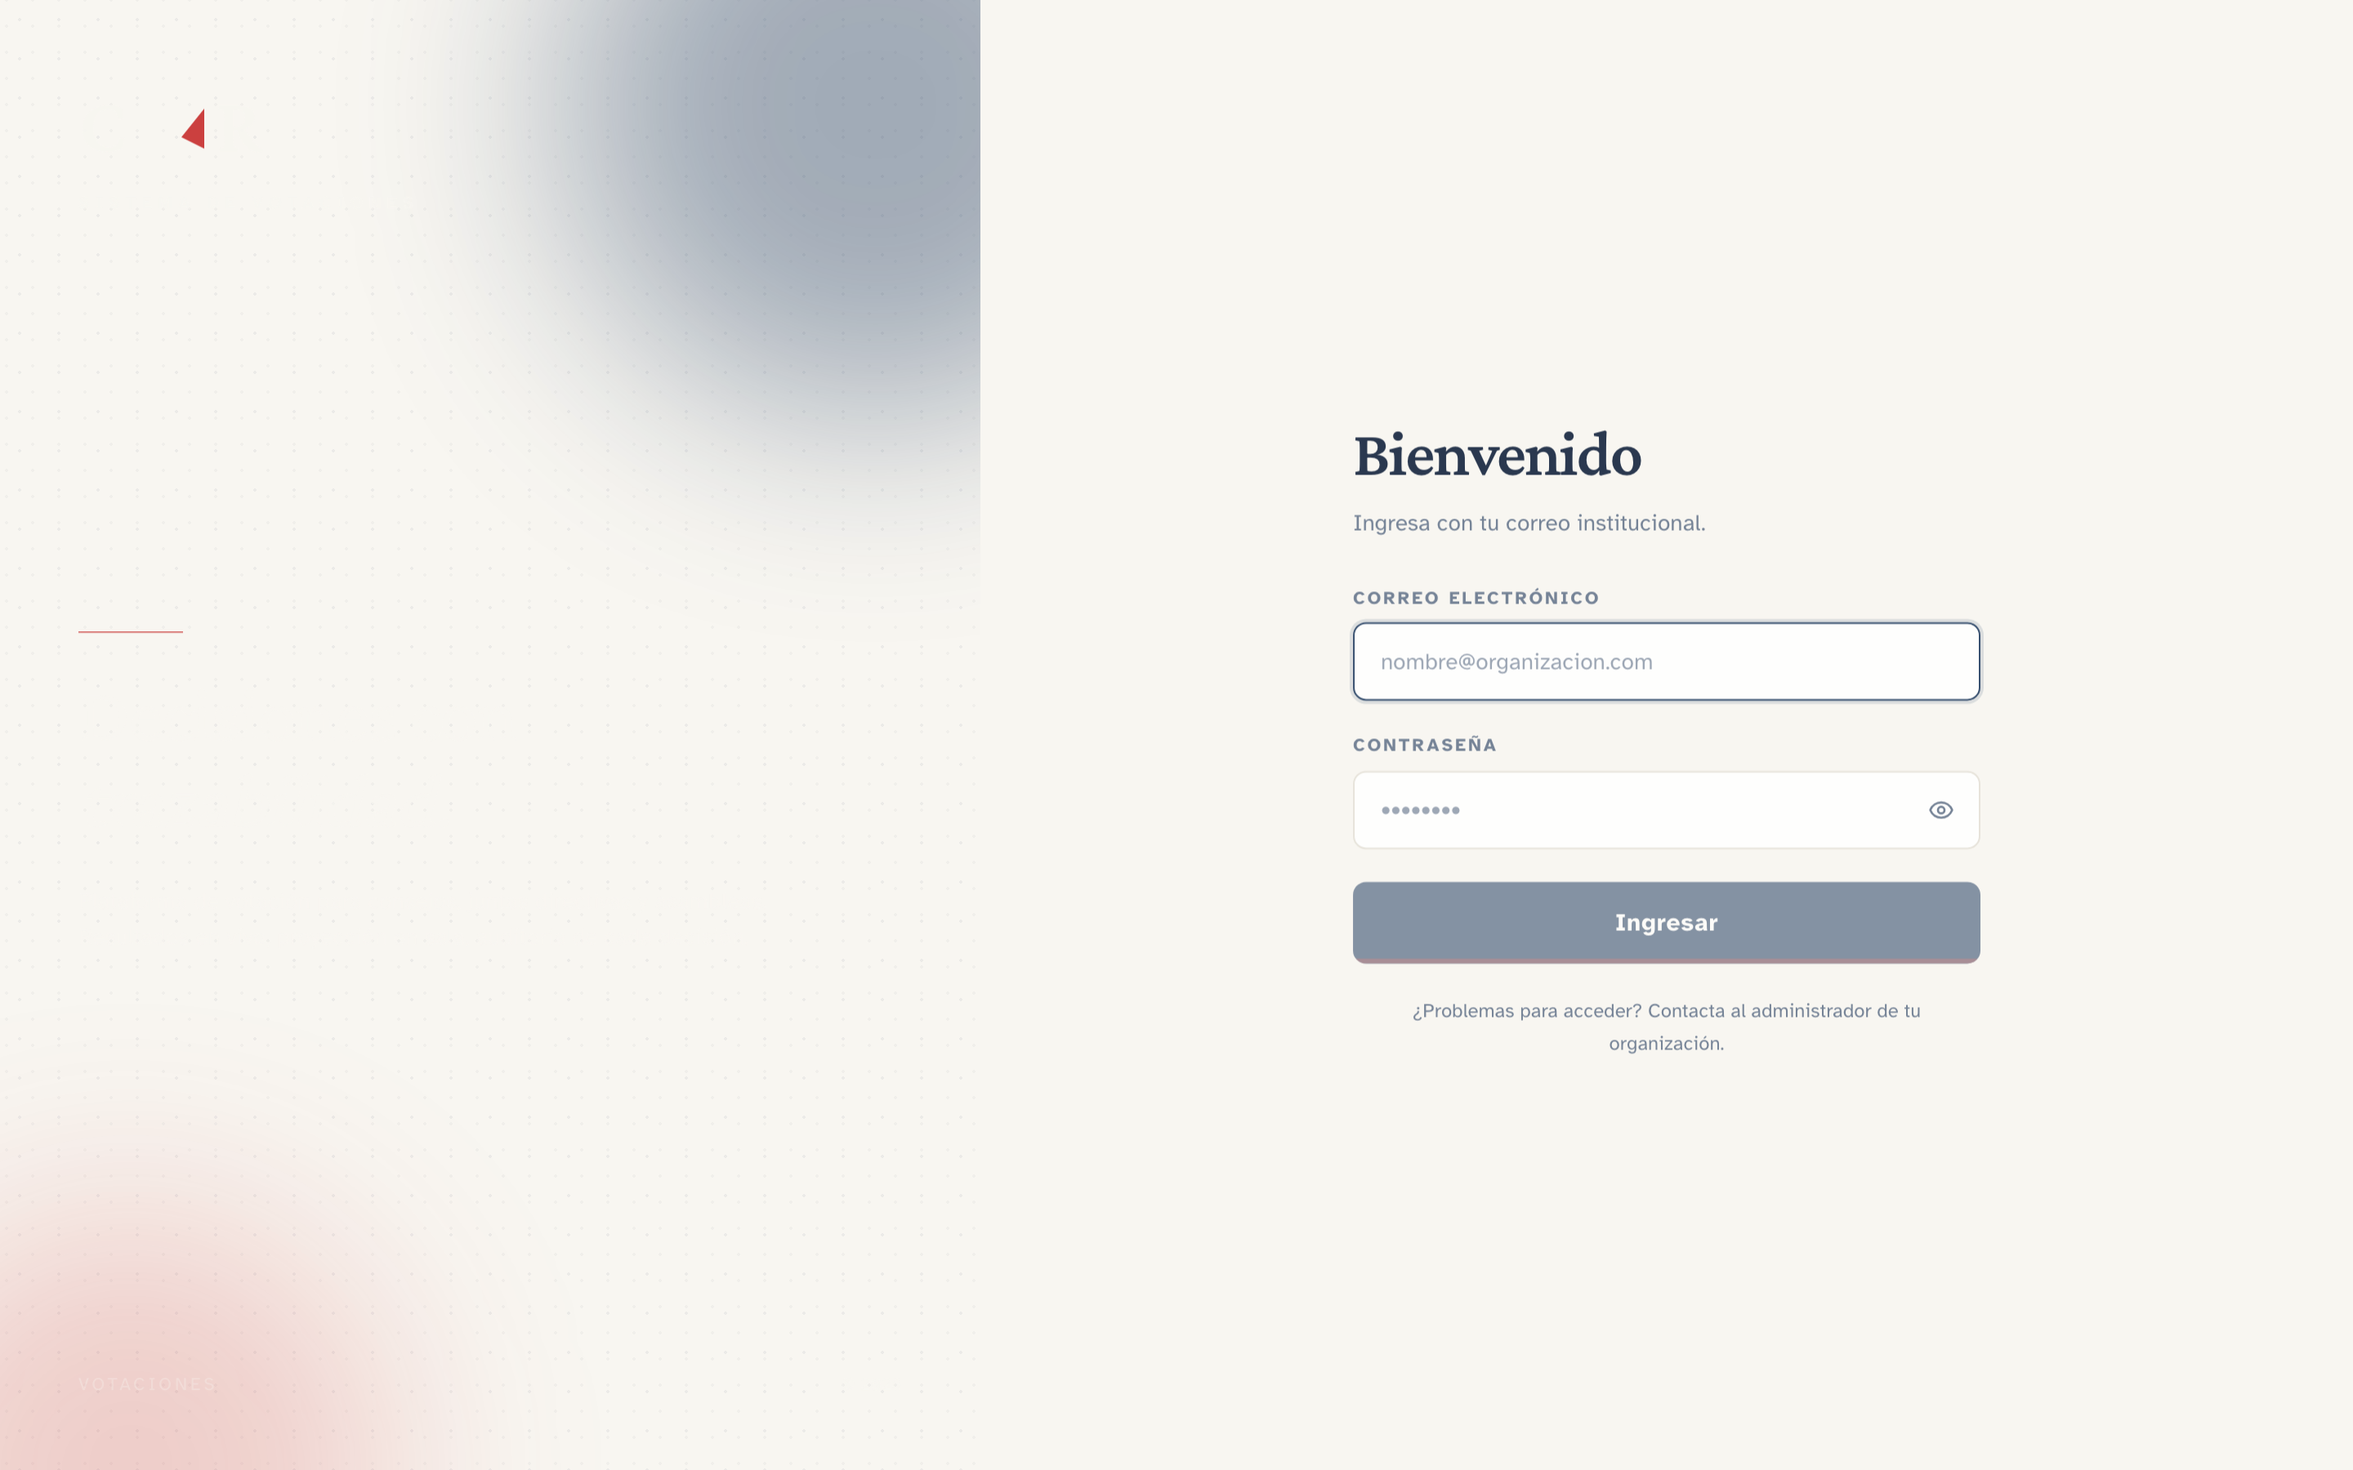
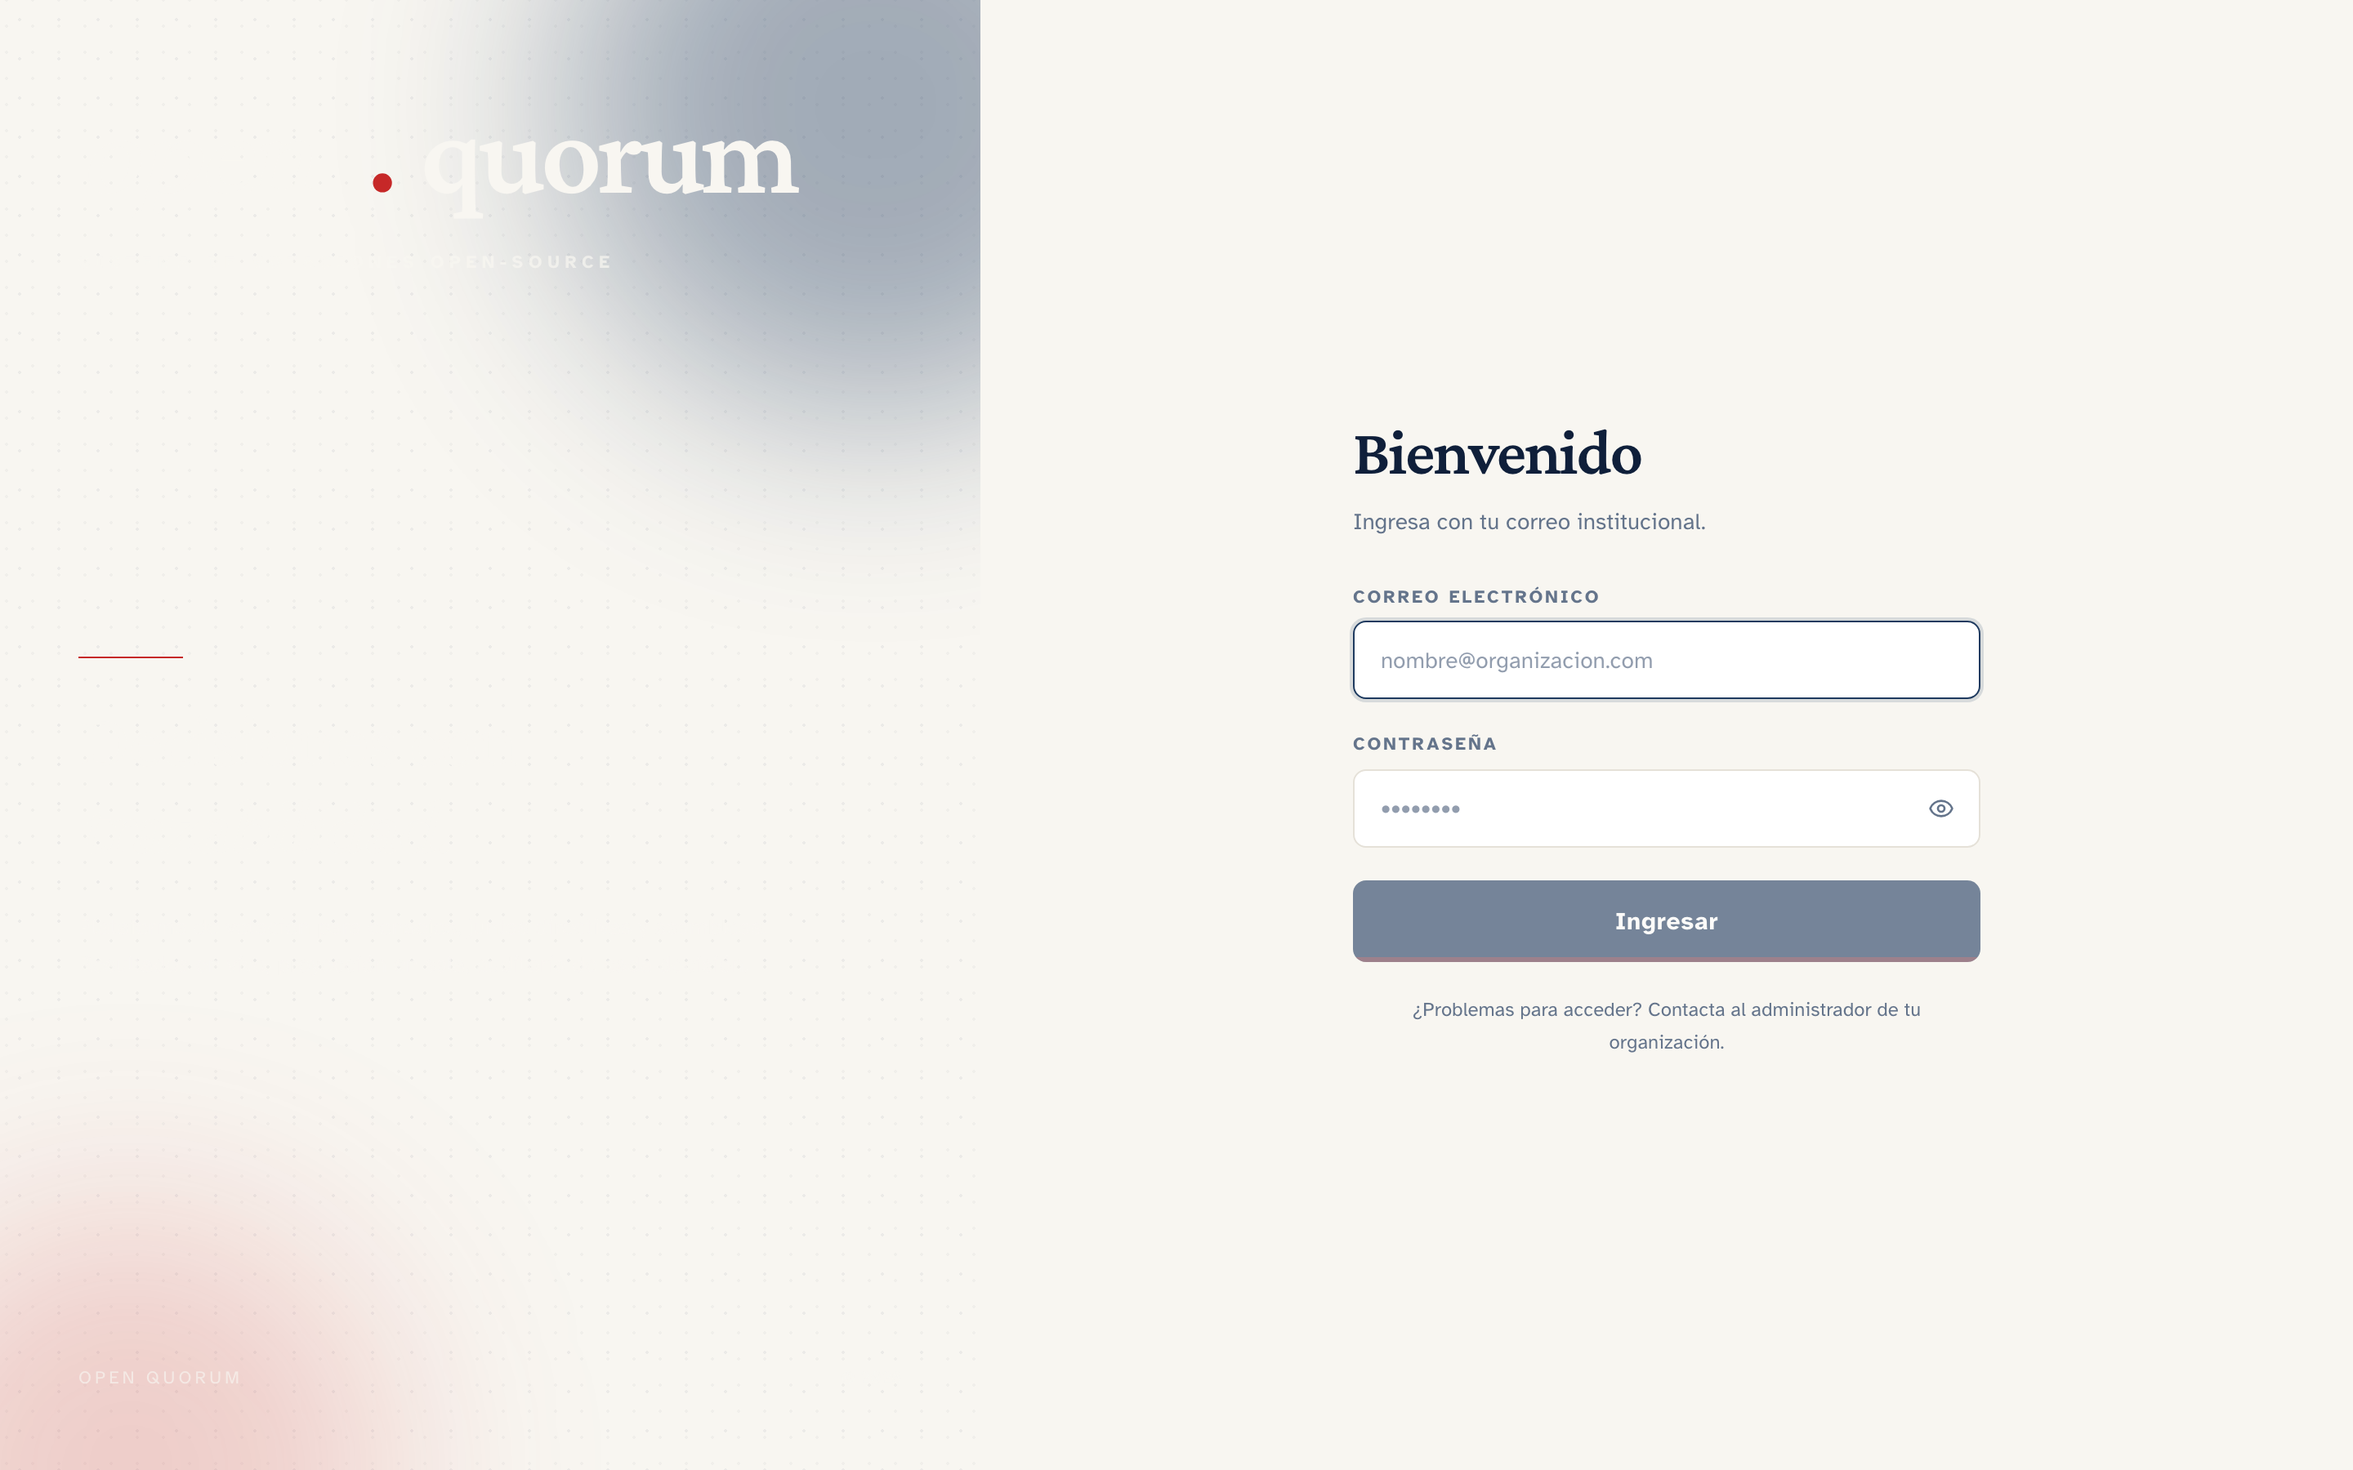
feat(brand): rename to Open Quorum + tag form alignment + logout fix
Rebrand to Open Quorum:
- New brand-mark.tsx: BrandWordmark + BrandMonogram in HTML+CSS
  (not SVG — guarantees next/font Crimson Pro renders correctly).
  Wordmark reads "open•quorum" with italic "open" + crimson dot +
  bold "quorum". Monogram is "OQ" + crimson dot, compact for sidebar.
- Replaced CGR monograms in app-shell, login, branding preview.
- Default APP_NAME fallback now "Open Quorum" (was "Votaciones")
  across branding lib, login hero, branding form placeholder.
- .env.example updated. DB singleton branding also renamed.

Tag form alignment:
- Nombre moved to its own row; Color picker + Crear button sit on
  the same row, baseline-aligned (both h-10). Removes the awkward
  invisible-label spacer hack.

Logout reliability (already in previous commit but documented here):
- signOut now runs client-side via next-auth/react instead of an
  ephemeral server-action hash — survives rebuilds without "page
  couldn't load" errors on stale tabs.

Screenshots regenerated to reflect new branding.

diff --git a/src/components/tags/tags-manager.tsx b/src/components/tags/tags-manager.tsx
@@ -86,22 +86,22 @@ export function TagsManager({
         </CardHeader>
         <CardContent>
           <form onSubmit={handleCreate} className="space-y-4">
-            <div className="grid grid-cols-1 gap-3 sm:grid-cols-[1fr_auto_auto]">
-              <div className="space-y-1.5">
-                <Label htmlFor="nombre" className={labelCls}>
-                  Nombre
-                </Label>
-                <Input
-                  id="nombre"
-                  name="nombre"
-                  required
-                  placeholder="Ej: Elecciones 2026"
-                  value={nombre}
-                  onChange={(e) => setNombre(e.target.value)}
-                  className={fieldCls}
-                />
-              </div>
-              <div className="space-y-1.5">
+            <div className="space-y-1.5">
+              <Label htmlFor="nombre" className={labelCls}>
+                Nombre
+              </Label>
+              <Input
+                id="nombre"
+                name="nombre"
+                required
+                placeholder="Ej: Elecciones 2026"
+                value={nombre}
+                onChange={(e) => setNombre(e.target.value)}
+                className={fieldCls}
+              />
+            </div>
+            <div className="flex flex-col gap-3 sm:flex-row sm:items-end sm:gap-3">
+              <div className="flex-1 space-y-1.5">
                 <Label htmlFor="color" className={labelCls}>
                   Color
                 </Label>
@@ -119,23 +119,18 @@ export function TagsManager({
                   </span>
                 </div>
               </div>
-              <div className="space-y-1.5">
-                <Label className={cn(labelCls, "invisible sm:visible")}>
-                  &nbsp;
-                </Label>
-                <Button
-                  type="submit"
-                  disabled={isCreating || !nombre.trim()}
-                  className="bg-brand-navy text-white hover:bg-brand-navy-deep"
-                >
-                  {isCreating ? (
-                    <Loader2 aria-hidden className="size-4 animate-spin" />
-                  ) : (
-                    <Plus aria-hidden className="size-4" />
-                  )}
-                  Crear
-                </Button>
-              </div>
+              <Button
+                type="submit"
+                disabled={isCreating || !nombre.trim()}
+                className="h-10 bg-brand-navy text-white hover:bg-brand-navy-deep"
+              >
+                {isCreating ? (
+                  <Loader2 aria-hidden className="size-4 animate-spin" />
+                ) : (
+                  <Plus aria-hidden className="size-4" />
+                )}
+                Crear
+              </Button>
             </div>
 
             {/* Paleta sugerida */}

diff --git a/src/app/admin/configuracion/branding/page.tsx b/src/app/admin/configuracion/branding/page.tsx
@@ -15,6 +15,7 @@ import { Input } from "@/components/ui/input";
 import { Label } from "@/components/ui/label";
 import { cn } from "@/lib/utils";
 import { Check, Image as ImageIcon, Palette as PaletteIcon } from "lucide-react";
+import { BrandMonogram } from "@/components/brand-mark";
 
 export const dynamic = "force-dynamic";
 
@@ -88,7 +89,7 @@ export default async function BrandingPage() {
                     id="nombre"
                     name="nombre"
                     defaultValue={branding.nombre}
-                    placeholder="Votaciones"
+                    placeholder="Open Quorum"
                     className={fieldCls}
                   />
                 </div>
@@ -118,39 +119,11 @@ export default async function BrandingPage() {
                       className="h-8 w-auto max-w-[120px] object-contain"
                     />
                   ) : (
-                    <svg
-                      viewBox="0 0 120 48"
-                      className="h-7 w-auto text-brand-cream"
-                      aria-hidden
-                    >
-                      <text
-                        x="0"
-                        y="38"
-                        fontFamily='"Crimson Pro", Georgia, serif'
-                        fontWeight="600"
-                        fontSize="42"
-                        letterSpacing="-1.5"
-                        fill="currentColor"
-                      >
-                        C
-                      </text>
-                      <polygon points="52,30 64,15 64,38" fill="var(--brand-crimson)" />
-                      <text
-                        x="72"
-                        y="38"
-                        fontFamily='"Crimson Pro", Georgia, serif'
-                        fontWeight="600"
-                        fontSize="42"
-                        letterSpacing="-1.5"
-                        fill="currentColor"
-                      >
-                        R
-                      </text>
-                    </svg>
+                    <BrandMonogram className="text-xl text-brand-cream" />
                   )}
                   <div className="flex flex-col leading-tight">
                     <span className="font-display text-base font-semibold">
-                      {branding.nombre || "Votaciones"}
+                      {branding.nombre || "Open Quorum"}
                     </span>
                     <span className="text-[10px] font-bold uppercase tracking-[0.2em] text-brand-cream/50">
                       Admin

diff --git a/src/app/login/page.tsx b/src/app/login/page.tsx
@@ -12,38 +12,9 @@ import {
 import { Input } from "@/components/ui/input";
 import { Label } from "@/components/ui/label";
 import { cn } from "@/lib/utils";
+import { BrandWordmark, BrandMonogram } from "@/components/brand-mark";
 
-const APP_NAME = process.env.NEXT_PUBLIC_APP_NAME ?? "Votaciones";
-
-function Monogram({ className = "" }: { className?: string }) {
-  return (
-    <svg viewBox="0 0 160 64" className={className} role="img" aria-label="Monograma CGR">
-      <text
-        x="0"
-        y="50"
-        fontFamily='"Crimson Pro", Georgia, serif'
-        fontWeight="600"
-        fontSize="56"
-        letterSpacing="-2"
-        fill="currentColor"
-      >
-        C
-      </text>
-      <polygon points="72,40 88,20 88,48" fill="#C62828" />
-      <text
-        x="96"
-        y="50"
-        fontFamily='"Crimson Pro", Georgia, serif'
-        fontWeight="600"
-        fontSize="56"
-        letterSpacing="-2"
-        fill="currentColor"
-      >
-        R
-      </text>
-    </svg>
-  );
-}
+const APP_NAME = process.env.NEXT_PUBLIC_APP_NAME ?? "Open Quorum";
 
 const fieldBase =
   "h-12 w-full rounded-lg border-brand-border bg-brand-paper px-4 text-[15px] text-brand-ink placeholder:text-brand-muted/70 shadow-none transition-[border-color,box-shadow] duration-200 ease-out focus-visible:border-brand-navy focus-visible:outline-none focus-visible:ring-2 focus-visible:ring-brand-navy/15";
@@ -212,9 +183,9 @@ export default function LoginPage() {
         />
 
         <header className="relative cgr-reveal">
-          <Monogram className="h-14 w-auto text-brand-cream" />
+          <BrandWordmark className="text-[2.25rem] text-brand-cream" />
           <p className="mt-3 text-[11px] font-bold uppercase tracking-[0.3em] text-brand-cream/70">
-            Sistema de Votaciones
+            Sistema de votaciones open-source
           </p>
         </header>
 
@@ -245,7 +216,7 @@ export default function LoginPage() {
         <div className="w-full max-w-sm cgr-reveal">
           {/* Monograma mobile */}
           <div className="mb-10 flex flex-col items-center lg:hidden">
-            <Monogram className="h-10 w-auto text-brand-navyDeep" />
+            <BrandMonogram className="text-2xl text-brand-ink" />
             <p className="mt-2 text-[10px] font-bold uppercase tracking-[0.24em] text-brand-muted">
               {APP_NAME}
             </p>

diff --git a/src/components/app-shell.tsx b/src/components/app-shell.tsx
@@ -3,6 +3,7 @@ import type { Rol } from "@/generated/prisma";
 import { auth } from "@/lib/auth";
 import { obtenerBranding } from "@/lib/branding";
 import { LogoutButton } from "@/components/logout-button";
+import { BrandMonogram } from "@/components/brand-mark";
 import {
   SidebarProvider,
   Sidebar,
@@ -62,36 +63,6 @@ const NAV_BY_ROLE: Record<Rol, NavGroup[]> = {
   ],
 };
 
-function MonogramSVG({ className = "" }: { className?: string }) {
-  return (
-    <svg viewBox="0 0 120 48" className={className} role="img" aria-label="Monograma">
-      <text
-        x="0"
-        y="38"
-        fontFamily='"Crimson Pro", Georgia, serif'
-        fontWeight="600"
-        fontSize="42"
-        letterSpacing="-1.5"
-        fill="currentColor"
-      >
-        C
-      </text>
-      <polygon points="52,30 64,15 64,38" fill="currentColor" className="text-brand-crimson" />
-      <text
-        x="72"
-        y="38"
-        fontFamily='"Crimson Pro", Georgia, serif'
-        fontWeight="600"
-        fontSize="42"
-        letterSpacing="-1.5"
-        fill="currentColor"
-      >
-        R
-      </text>
-    </svg>
-  );
-}
-
 const ROLE_BADGE: Record<Rol, string> = {
   ADMIN: "Admin",
   REVIEWER: "Reviewer",
@@ -123,7 +94,7 @@ export async function AppShell({
                 className="h-8 w-auto max-w-[120px] object-contain group-data-[collapsible=icon]:h-6 group-data-[collapsible=icon]:max-w-[24px]"
               />
             ) : (
-              <MonogramSVG className="h-7 w-auto text-brand-cream group-data-[collapsible=icon]:h-6" />
+              <BrandMonogram className="text-xl text-brand-cream group-data-[collapsible=icon]:text-lg" />
             )}
             <div className="flex flex-col leading-tight group-data-[collapsible=icon]:hidden">
               <span className="font-display text-base font-semibold text-brand-cream">

diff --git a/src/components/brand-mark.tsx b/src/components/brand-mark.tsx
@@ -1,0 +1,69 @@
+/**
+ * Marca visual de Open Quorum (sin hardcodear el cliente consumidor).
+ * - BrandWordmark: versión extendida para hero (login)
+ * - BrandMonogram: versión compacta para sidebar / favicon-like
+ *
+ * Cuando `AppBranding.logoUrl` está configurado por un despliegue,
+ * AppShell usa <img> en su lugar y este monograma solo aparece como
+ * fallback o decoración.
+ */
+
+export function BrandWordmark({ className = "" }: { className?: string }) {
+  return (
+    <svg
+      viewBox="0 0 260 48"
+      className={className}
+      role="img"
+      aria-label="Open Quorum"
+    >
+      <text
+        x="0"
+        y="36"
+        fontFamily='"Crimson Pro", Georgia, serif'
+        fontWeight="500"
+        fontStyle="italic"
+        fontSize="38"
+        letterSpacing="-1"
+        fill="currentColor"
+      >
+        open
+      </text>
+      <circle cx="96" cy="33" r="3" fill="var(--brand-crimson)" />
+      <text
+        x="108"
+        y="36"
+        fontFamily='"Crimson Pro", Georgia, serif'
+        fontWeight="600"
+        fontSize="38"
+        letterSpacing="-1.5"
+        fill="currentColor"
+      >
+        quorum
+      </text>
+    </svg>
+  );
+}
+
+export function BrandMonogram({ className = "" }: { className?: string }) {
+  return (
+    <svg
+      viewBox="0 0 80 48"
+      className={className}
+      role="img"
+      aria-label="Open Quorum"
+    >
+      <text
+        x="0"
+        y="38"
+        fontFamily='"Crimson Pro", Georgia, serif'
+        fontWeight="600"
+        fontSize="44"
+        letterSpacing="-2"
+        fill="currentColor"
+      >
+        OQ
+      </text>
+      <circle cx="68" cy="38" r="3.5" fill="var(--brand-crimson)" />
+    </svg>
+  );
+}

diff --git a/src/lib/branding.ts b/src/lib/branding.ts
@@ -41,7 +41,7 @@ const SINGLETON_ID = "singleton";
 
 const BRANDING_DEFAULT = {
   id: SINGLETON_ID,
-  nombre: process.env.NEXT_PUBLIC_APP_NAME ?? "Votaciones",
+  nombre: process.env.NEXT_PUBLIC_APP_NAME ?? "Open Quorum",
   logoUrl: null as string | null,
   tema: "institucional",
   updatedBy: null as string | null,
@@ -83,7 +83,7 @@ export async function actualizarBranding(input: {
     where: { id: SINGLETON_ID },
     create: {
       id: SINGLETON_ID,
-      nombre: (data.nombre as string) ?? "Votaciones",
+      nombre: (data.nombre as string) ?? "Open Quorum",
       logoUrl: (data.logoUrl as string | null) ?? null,
       tema: (data.tema as string) ?? "institucional",
       updatedBy: input.updatedBy,
